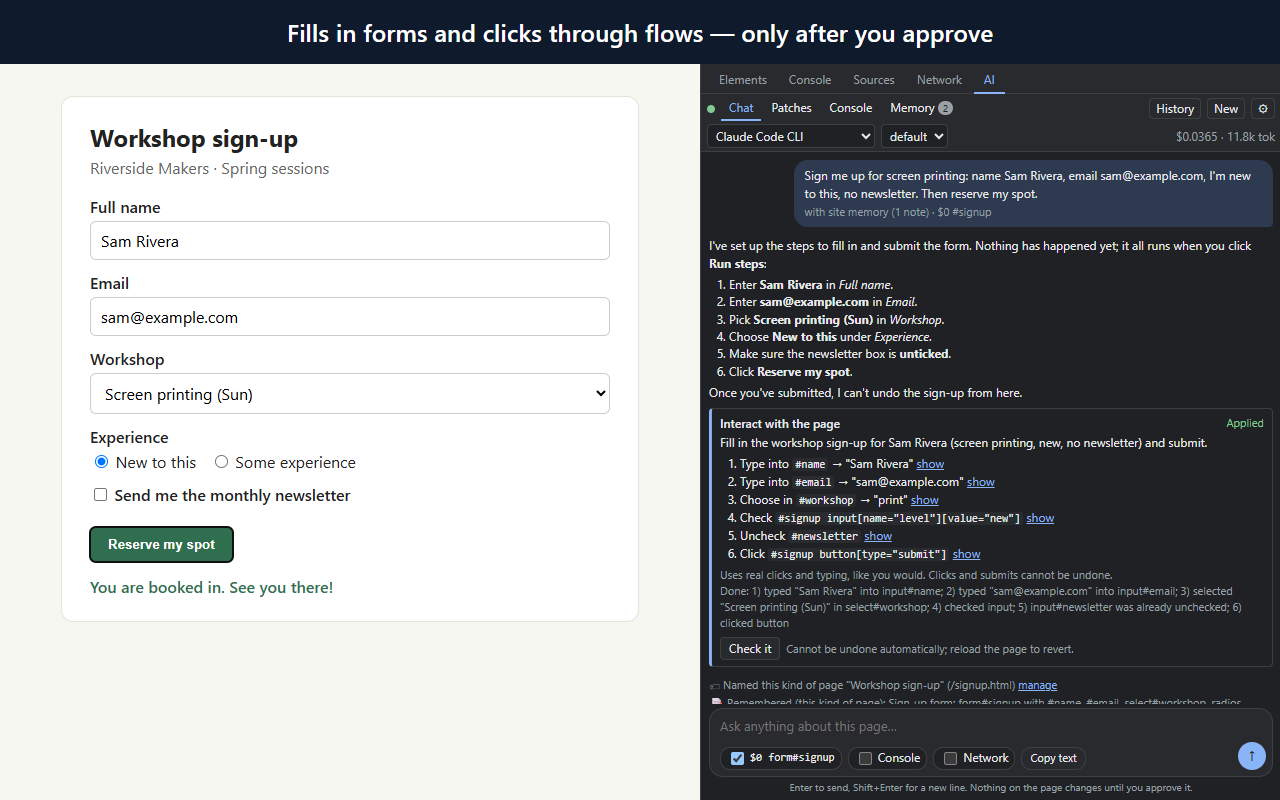
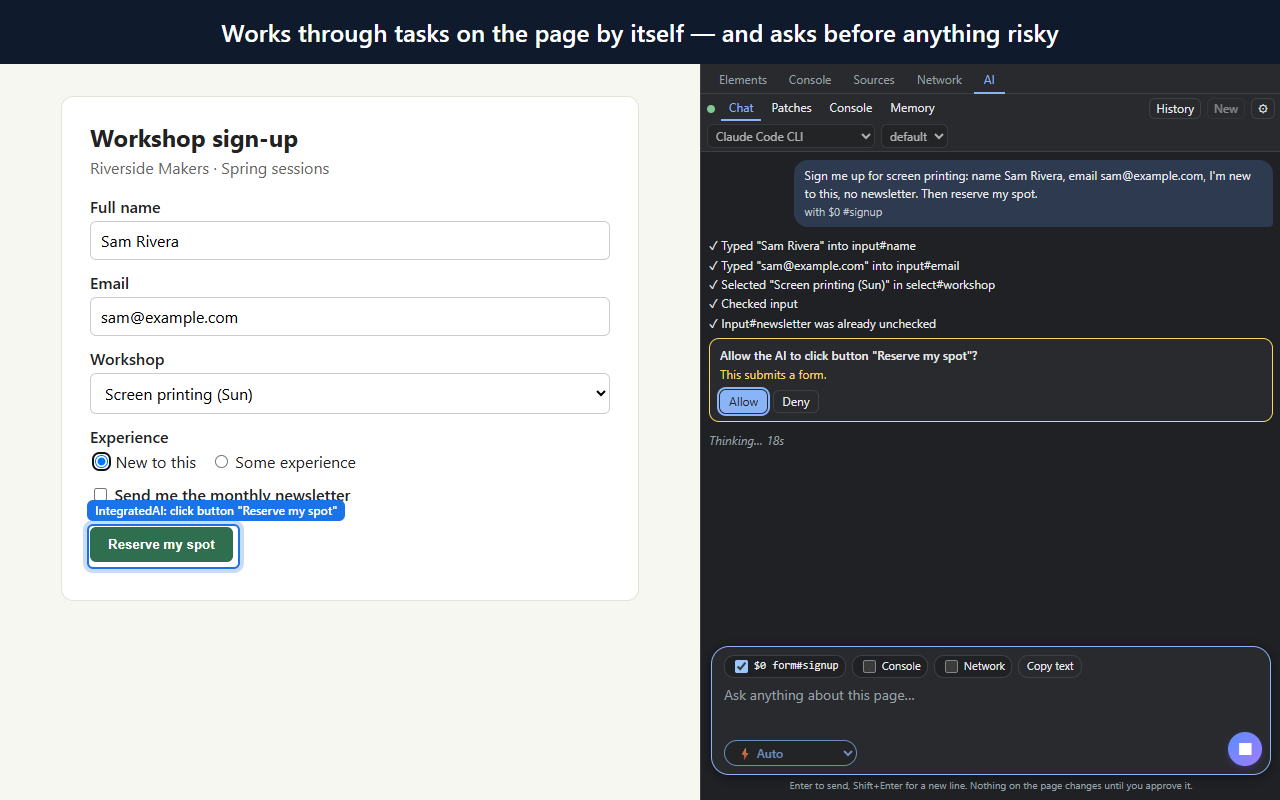
Agent steps: the outline stays on the target while you're asked; steps named by their text
- The outline on the page now stays on the element until you answer and the step runs
  (it used to fade after 1.6 s, often before you'd decided); denied or failed steps clear it.
- Steps are named by the element's visible text even when the AI targets it by selector
  ("click button \"Reserve my spot\"", not "click button").
- Claude Code: no extra "🔍 Interact with the page…" preview lines for page steps.
- Store screenshot 03 shows Auto mode asking before the submit, regenerated with Claude Code.

diff --git a/extension/panel/lib/page-interact.js b/extension/panel/lib/page-interact.js
@@ -23,11 +23,12 @@
  *
  * With dry: true nothing happens: the step's target is found, outlined on the page with a
  * label (so the user can follow the AI working), and described, including whether the step
- * is risky (the agent modes ask before those).
+ * is risky (the agent modes ask before those). With hold: true the outline stays until the
+ * step runs (or clearHighlight), so it marks the target while the user is asked.
  * @returns {{ found: false } | { found: true, did: string, undoable: boolean }
  *   | { found: true, what: string, risky: string }}  risky: why it is, or ''
  */
-export function interactStep(h, selected, { actionId, step, dry = false }) {
+export function interactStep(h, selected, { actionId, step, dry = false, hold = false }) {
   const norm = (s) => String(s ?? '').replace(/\s+/g, ' ').trim().toLowerCase();
   const visible = (el) => {
     const r = el.getBoundingClientRect();
@@ -107,8 +108,17 @@ export function interactStep(h, selected, { actionId, step, dry = false }) {
     if (r.top < 30) tag.style.top = `${r.height + 6}px`;
     box.append(tag);
     document.documentElement.append(box);
-    setTimeout(() => { box.style.opacity = '0'; setTimeout(() => box.remove(), 400); }, 1600);
+    if (!hold) fadeHighlight(1600);
   };
+  /** Fade out and remove the outline after a moment. */
+  const fadeHighlight = (delay) => setTimeout(() => {
+    const box = document.getElementById('integratedai-highlight');
+    if (!box) return;
+    box.style.opacity = '0';
+    setTimeout(() => box.remove(), 400);
+  }, delay);
+  // Doing the step: the outline that marked it fades shortly after.
+  if (!dry) fadeHighlight(700);
 
   /** Why a step needs the user's OK even in Auto mode ('' = it doesn't). */
   const riskOf = (target) => {
@@ -146,7 +156,9 @@ export function interactStep(h, selected, { actionId, step, dry = false }) {
   const el = find();
   if (!el) return { found: false };
   if (dry) {
-    const what = `${step.action} ${h.label(el)}${step.text ? ` "${step.text}"` : ''}${step.action === 'type' || step.action === 'select' ? ` → "${String(step.value).slice(0, 40)}"` : ''}`;
+    // Name it the way a person would: by its visible text, also when the step targets it by selector.
+    const shown = step.text || (['type', 'select'].includes(step.action) ? '' : textOf(el).slice(0, 40));
+    const what = `${step.action} ${h.label(el)}${shown ? ` "${shown}"` : ''}${step.action === 'type' || step.action === 'select' ? ` → "${String(step.value).slice(0, 40)}"` : ''}`;
     if (step.action !== 'scroll' || step.value === undefined) el.scrollIntoView({ block: 'center', inline: 'nearest' });
     highlight(el, what);
     return { found: true, what, risky: riskOf(el) };
@@ -275,6 +287,12 @@ export function interactStep(h, selected, { actionId, step, dry = false }) {
     default:
       throw new Error(`Unknown step action "${step.action}"`);
   }
+}
+
+/** Remove the outline of a step that was not done (denied, or failed). */
+export function clearHighlight() {
+  document.getElementById('integratedai-highlight')?.remove();
+  return true;
 }
 
 /** Undo the typed values / selections / checkboxes of an interact action (newest first). */

diff --git a/extension/panel/lib/agent-runner.js b/extension/panel/lib/agent-runner.js
@@ -15,7 +15,7 @@
  */
 
 import { callInPage, evalInPage } from './inspected.js';
-import { interactStep } from './page-interact.js';
+import { clearHighlight, interactStep } from './page-interact.js';
 
 const STEP_TIMEOUT_MS = 5000;
 const WAIT_MAX_MS = 10_000;
@@ -103,7 +103,8 @@ export class AgentRunner {
       const deadline = Date.now() + (step.action === 'wait' ? WAIT_MAX_MS : STEP_TIMEOUT_MS);
       let preview;
       try {
-        while (!(preview = await callInPage(interactStep, { actionId, step, dry: true }))?.found && Date.now() < deadline) await sleep(POLL_MS);
+        // hold: the outline stays on the target while the user is asked and until the step runs.
+        while (!(preview = await callInPage(interactStep, { actionId, step, dry: true, hold: true }))?.found && Date.now() < deadline) await sleep(POLL_MS);
       } catch (err) {
         throw new Error(`Step ${index + 1} failed: ${/** @type {any} */ (err).message}${soFar(done)}`);
       }
@@ -114,6 +115,7 @@ export class AgentRunner {
       try {
         await this.approve(mode, preview.what, preview.risky);
       } catch (err) {
+        await callInPage(clearHighlight).catch(() => {});
         throw new Error(`${/** @type {any} */ (err).message}${soFar(done)}`);
       }
 
@@ -124,6 +126,7 @@ export class AgentRunner {
       try {
         result = await callInPage(interactStep, { actionId, step });
       } catch (err) {
+        await callInPage(clearHighlight).catch(() => {});
         line.done(`Failed: ${preview.what}`, false);
         throw new Error(`Step ${index + 1} failed: ${/** @type {any} */ (err).message}${soFar(done)}`);
       }

diff --git a/server/src/providers/claude-cli.js b/server/src/providers/claude-cli.js
@@ -31,7 +31,7 @@ import { spawn } from 'node:child_process';
 import { createHash, randomUUID } from 'node:crypto';
 import { mkdirSync, writeFileSync, existsSync } from 'node:fs';
 import { join } from 'node:path';
-import { ACTIONS, envelopeSchema } from '../../../extension/shared/actions.js';
+import { ACTIONS, envelopeSchema, isPageAction } from '../../../extension/shared/actions.js';
 import { Provider } from '../../../extension/shared/providers/base.js';
 import { newCallId, renderAsText } from '../../../extension/shared/providers/common.js';
 
@@ -458,6 +458,8 @@ export class StreamPreview {
       if (block?.type === 'tool_use' && block.name === 'WebFetch') return '\n🔎 Reading a web page…\n';
       if (block?.type === 'tool_use' && block.name.startsWith(MCP_PREFIX)) {
         const name = block.name.slice(MCP_PREFIX.length);
+        // Page steps (agent modes) show up as their own lines in the chat while they run.
+        if (isPageAction(name)) return '';
         return `\n🔍 ${ACTIONS[name]?.label ?? name}…\n`;
       }
       return '';

diff --git a/store/SUBMISSION.md b/store/SUBMISSION.md
@@ -40,7 +40,7 @@ AI panel in Chrome DevTools: explains layout and console errors, previews CSS fi
 **Screenshots (1280×800), ready in `store/screenshots/`**, upload in this order:
 1. `01-diagnose.png`: ask why a badge is cut off; cause plus a previewed fix
 2. `02-theme-toggle.png`: a dark reading theme with an on/off button in the site's nav bar
-3. `03-forms.png`: a sign-up form filled in and submitted after approval
+3. `03-forms.png`: Auto mode: it filled in a sign-up form by itself and asks before submitting (the button is outlined on the page)
 4. `04-memory.png`: the Memory tab (what it learned about the site)
 5. `05-options.png`: connection choice (your own API key or Ollama, or the local server)
 
